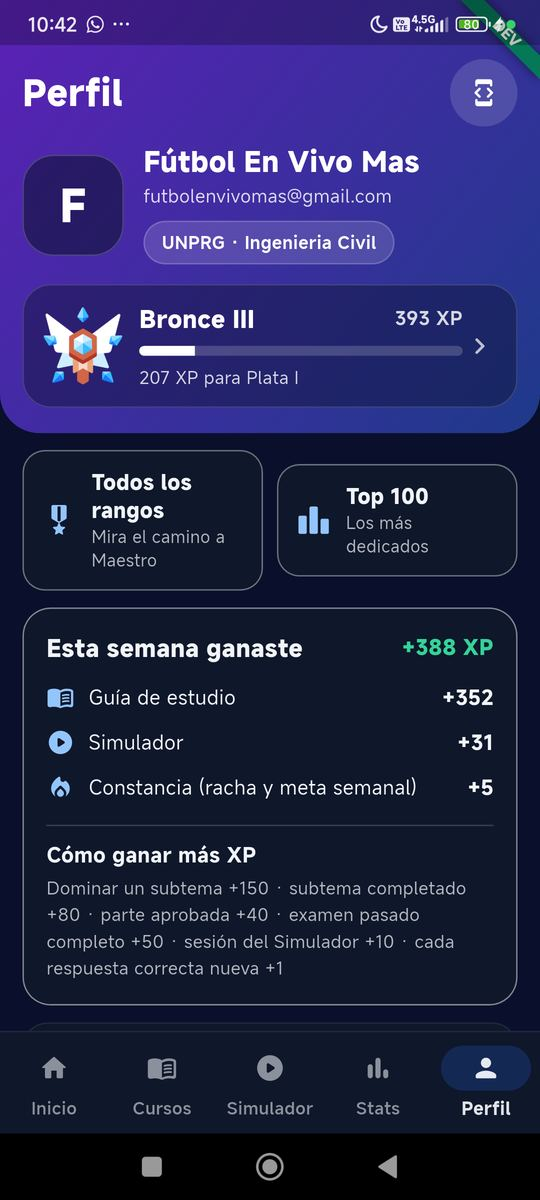
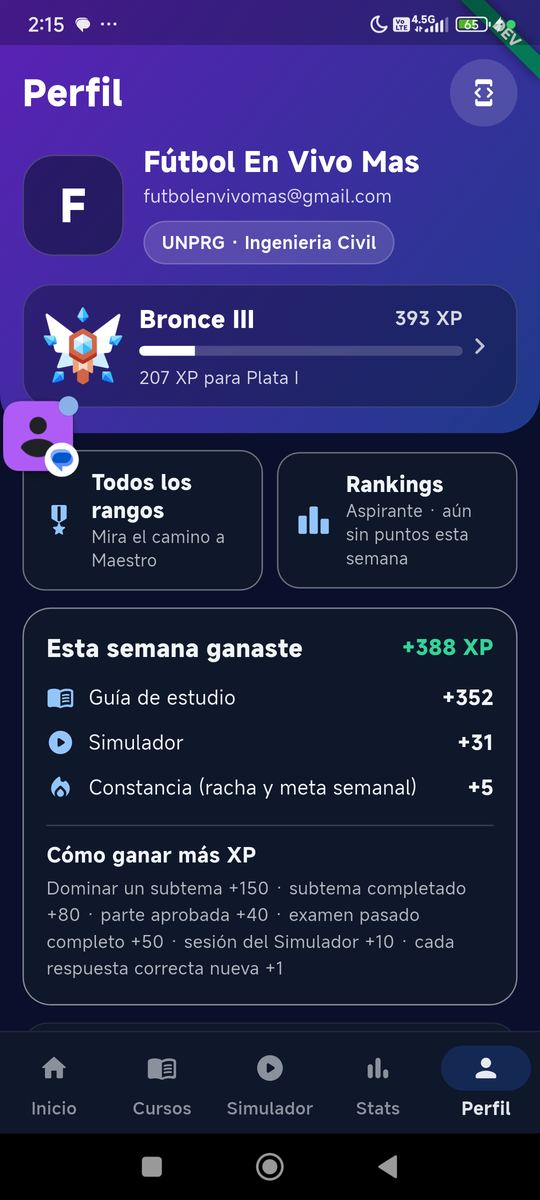
fix(simulator): no practicar los errores del reto del día el mismo día

diff --git a/docs/guias/guia_app.html b/docs/guias/guia_app.html
@@ -635,7 +635,7 @@ flowchart LR
 </ul>
 
 <div class="screen" id="xp-perfil">
-  <figure><img src="img/xp-perfil.jpg" alt="Perfil con rango"><figcaption>Perfil: Bronce III, 393 XP, y los accesos.</figcaption></figure>
+  <figure><img src="img/xp-perfil.jpg" alt="Perfil con rango"><figcaption>Perfil: «Todos los rangos» y «Rankings».</figcaption></figure>
   <div class="body">
 <h3>En el Perfil</h3>
 <div class="table-wrap"><table>
@@ -698,7 +698,11 @@ flowchart LR
   </div>
 </div>
 
-<h3 id="xp-usuario">Nombre de usuario</h3>
+<div class="screen two" id="xp-usuario">
+  <figure><img src="img/rk-nombre-asignado.jpg" alt="Te asignamos un nombre de usuario"><figcaption>Aviso único a una cuenta que ya existía.</figcaption></figure>
+  <figure><img src="img/rk-nombre-usuario.jpg" alt="Tu nombre de usuario"><figcaption>Perfil → «Tu nombre de usuario».</figcaption></figure>
+  <div class="body">
+<h3>Nombre de usuario</h3>
 <p>Todos los alumnos tienen un nombre de usuario: es lo único que los demás ven en los rankings, junto a la insignia del rango. Nunca se muestra el nombre real, el correo ni las respuestas.</p>
 <div class="table-wrap"><table>
   <tr><th>Dónde</th><th>Mensaje</th><th>Cuándo aparece</th></tr>
@@ -708,8 +712,14 @@ flowchart LR
   <tr><td class="msg">Perfil → «Tu nombre de usuario»</td><td>Campo · «Otro al azar» · «Ocultarme de los rankings» (apagado: «Apareces con tu nombre de usuario y tu insignia.»; encendido: «Juegas igual y ves tu puesto, pero los demás te ven como «Postulante oculto».») · «Los demás ven / Nunca ven» · «Compites en UNPRG · Ingeniería Civil, según tu perfil.» · «Guardar» → «Listo, guardado.»</td><td>Siempre.</td></tr>
   <tr><td class="msg">Errores del nombre</td><td>«El alias debe tener de 3 a 20 caracteres.» · «Usa solo letras, números y _ (sin espacios), con al menos una letra.» · «Ese alias no está permitido. Prueba con otro.» · «No uses tu nombre ni tu correo en el alias.» · «Ese alias ya lo usa otro alumno.»</td><td>Los dos primeros los revisa la app; el resto, el servidor (palabras prohibidas de fábrica + las del admin <span class="chip info">ADMIN</span>).</td></tr>
 </table></div>
+  </div>
+</div>
 
-<h3 id="xp-rankings">Rankings: «Mi liga»</h3>
+<div class="screen two" id="xp-rankings">
+  <figure><img src="img/rk-mi-liga.jpg" alt="Mi liga"><figcaption>Aspirante, 1° de 1, reto hecho.</figcaption></figure>
+  <figure><img src="img/rk-esta-semana.jpg" alt="Esta semana"><figcaption>«Esta semana» en la UNPRG.</figcaption></figure>
+  <div class="body">
+<h3>Rankings: «Mi liga»</h3>
 <p>Se abre desde el Perfil. Solo existe cuando el admin enciende los rankings <span class="chip info">ADMIN</span> (de fábrica están apagados). La <b>liga semanal</b> mide el XP que ganas de lunes a domingo (hora de Lima) frente a un grupo de unos 30 alumnos <span class="chip info">ADMIN</span> de tu misma <b>etapa</b>: Aspirante → Postulante → Finalista → Ingresante <span class="chip info">ADMIN</span>. La etapa no es el rango del perfil: el rango solo sube; la etapa sube o baja cada semana.</p>
 <ul>
   <li><b>Entrar a un grupo:</b> al ganar tu primer XP de la semana entras al primer grupo de tu etapa con cupo; si está lleno, se abre otro (por orden de llegada). Sin XP, no ocupas lugar.</li>
@@ -727,8 +737,13 @@ flowchart LR
   <tr><td class="msg">El lunes, una vez: «¡Subiste a Finalista!» / «Te mantienes en Postulante» / «Bajaste a Aspirante» · «La semana pasada quedaste {p}° de {n} en tu grupo. ¡Esta semana empiezas de cero!» · «¡Vamos!»</td><td>Al abrir Rankings después del cierre.</td></tr>
   <tr><td class="msg">«Los rankings todavía no están disponibles.»</td><td>Si el admin los apagó.</td></tr>
 </table></div>
+  </div>
+</div>
 
-<h3 id="xp-reto">Reto del día</h3>
+<div class="screen" id="xp-reto">
+  <figure><img src="img/rk-reto-tabla.jpg" alt="Tabla del reto"><figcaption>Tabla del día: UNPRG / Mi carrera.</figcaption></figure>
+  <div class="body">
+<h3>Reto del día</h3>
 <p>Un mini examen diario de 10 preguntas <span class="chip info">ADMIN</span> <b>iguales para toda tu universidad</b>, con 15 min <span class="chip info">ADMIN</span> y <b>un solo intento</b>. Aparece en Rankings y en el Inicio del Simulador (solo con los rankings encendidos).</p>
 <ul>
   <li><b>Preguntas:</b> el servidor arma el reto la primera vez que alguien de la universidad lo abre ese día. Siempre trae preguntas de <b>exámenes pasados de esa universidad</b> (hasta 6 <span class="chip info">ADMIN</span>; al menos 1 si existen); el resto, de exámenes de otras universidades o propias de IngresoYa, repartidas entre los cursos. No repite preguntas de sus retos de los últimos 30 días <span class="chip info">ADMIN</span>.</li>
@@ -742,11 +757,13 @@ flowchart LR
   <tr><td class="msg">«Reto del día» · «10 preguntas iguales para todos · cierra a medianoche» · «Jugar»</td><td>Si hoy no lo jugó.</td></tr>
   <tr><td class="msg">«Hecho · 8/10 · 6:42» · «Ver tabla»</td><td>Ya lo jugó hoy.</td></tr>
   <tr><td class="msg">«Reto de ayer: 7/10» · «Ver respuestas» · «Ver tabla»</td><td>Si jugó ayer: las respuestas con su explicación y la tabla final.</td></tr>
-  <tr><td class="msg">Intro «Reto del día» · «Un solo intento: al empezar, ya cuenta…»</td><td>Antes de empezar (pantalla del examen del Simulador, con reloj).</td></tr>
-  <tr><td class="msg">Resultado: puntaje, «Ganaste XP» (con «Reto del día +20») · «Mañana verás las respuestas y la tabla final.» · «Ver la tabla de hoy»</td><td>Al entregar. «Revisar» no muestra respuestas ese día.</td></tr>
+  <tr><td class="msg">Intro «Reto del día» · «10 preguntas» · «15:00» · «Un solo intento: al empezar, ya cuenta. Gana quien acierta más; si empatan, quien tardó menos. Las respuestas se ven mañana.»</td><td>Antes de empezar (pantalla del examen del Simulador, con reloj).</td></tr>
+  <tr><td class="msg">Resultado: puntaje, correctas / incorrectas / en blanco, «Ganaste XP» (con «Reto del día +20») · «Mañana verás las respuestas y la tabla final.» · «Ver la tabla de hoy» · «Volver»</td><td>Al entregar. Ese día no se muestran «Revisar», «Practicar mis errores», «Por curso y tema» ni el tema más débil, porque revelarían las respuestas (el servidor también rechaza practicar esos errores).</td></tr>
   <tr><td class="msg">Tabla «Reto del día · 15/10» con pestañas UNPRG / «Mi carrera» · «Tu puesto: 12° de 47» · filas «8/10 · 6:42»</td><td>La carrera es la del perfil al jugar; su pestaña se llena desde 5 jugadores <span class="chip info">ADMIN</span>.</td></tr>
   <tr><td class="msg">«Ya jugaste el reto de hoy. Vuelve mañana.» · «Hoy no hay reto para tu universidad.» · «Elige tu universidad en el Perfil para jugar el reto.»</td><td>Segundo intento · sin preguntas suficientes · perfil sin universidad.</td></tr>
 </table></div>
+  </div>
+</div>
 
 <!-- ============================================================ ADMIN -->
 <h2 id="admin">Lo que se cambia en el admin</h2>
@@ -789,7 +806,7 @@ flowchart LR
 <!-- ============================================================ CAMBIOS -->
 <h2 id="cambios">Historial de cambios</h2>
 <ul class="changelog">
-  <li><b>16-oct-2026</b> · XP fase 3: nombre de usuario para todos (onboarding, Perfil, «Ocultarme de los rankings»), «Rankings» con «Mi liga» (etapas Aspirante → Ingresante, grupos semanales, «Esta semana» por universidad y carrera) y «Reto del día»; se retira el top 100 de la fase 2. Admin «Rankings» y «Nombres de usuario y reto de hoy». Capturas pendientes.</li>
+  <li><b>16-oct-2026</b> · XP fase 3: nombre de usuario para todos (onboarding, Perfil, «Ocultarme de los rankings»), «Rankings» con «Mi liga» (etapas Aspirante → Ingresante, grupos semanales, «Esta semana» por universidad y carrera) y «Reto del día»; se retira el top 100 de la fase 2. Admin «Rankings» y «Nombres de usuario y reto de hoy». Probado en el teléfono (el reto trajo preguntas del examen UNPRG 2025 I); el resultado del reto oculta ese día lo que revela respuestas.</li>
   <li><b>15-oct-2026</b> · Pendientes antes de Play Console: un solo % del curso, «Tienes un examen sin terminar · Retomar» en el Simulador, «Hoy te toca» sin duplicados y botón «Continuar examen». Observaciones 1, 9 (en parte) y 11 corregidas.</li>
   <li><b>15-oct-2026</b> · XP fase 2: «Los más dedicados» (top 100), «Rankings y privacidad» con alias, accesos en el Perfil; admin «Top 100 y alias». Capturas del teléfono.</li>
   <li><b>15-oct-2026</b> · Rango de perfil y XP (fase 1): cómo se gana XP, Perfil, «Tu camino de rangos», «+N XP» al terminar y celebración; admin «XP y rangos» y «XP de un alumno» (app y admin «XP fase 1»). Capturas tomadas en el teléfono.</li>

diff --git a/functions/src/simulator_service.ts b/functions/src/simulator_service.ts
@@ -801,6 +801,10 @@ export class SimulatorService {
       data?.status !== "submitted") {
       throw failedPrecondition("That attempt cannot be practiced again.", { reason: "mistakes_unavailable" });
     }
+    // Practicing today's challenge mistakes would reveal its answers.
+    if (challengeLocked(simulator)) {
+      throw failedPrecondition("The challenge answers are hidden until tomorrow.", { reason: "mistakes_unavailable" });
+    }
     const attempt = projectAttemptResponse(input.fromAttemptId, data);
     const keys = await this.db.getAll(
       ...attempt.questions.map((question) =>

diff --git a/functions/test/simulator.emulator.test.ts b/functions/test/simulator.emulator.test.ts
@@ -315,6 +315,11 @@ test("reto del día: same questions for the university, one attempt, answers hid
   assert.equal(saved?.correct, 7);
   assert.equal(saved?.universityId, universityId);
   assert.equal(saved?.professionId, "sim-profession");
+  // «Practicar mis errores» of today's challenge would reveal the answers.
+  await assert.rejects(
+    service.create(uid, { requestId: "ch-mistakes", purpose: "practice", mode: "mistakes", fromAttemptId: first.attemptId, timed: false }),
+    hasReason("failed-precondition", "mistakes_unavailable")
+  );
   await rankings.delete();
 });
 

diff --git a/PROGRESO.md b/PROGRESO.md
@@ -8,6 +8,7 @@ _Última actualización: 2026-10-15_
 - `desarrollo` con admin #53 (repaso relámpago, 2026-10-14). Antes: #52, #51, #50. Functions en Node.js 22; las 7 callables e índices TTL desplegados en TEST; reglas de Firestore desplegadas en TEST.
 
 ## Hecho (reciente)
+- **Fase 3 probada en el teléfono (2026-10-16):** aviso «Te asignamos Oso_Civil_26», Perfil → «Rankings · Aspirante», Rankings sin asiento → reto del día (preguntas del examen UNPRG 2025 I, 3/10, +37 XP con «Reto del día +20») → asiento creado «1° de 1 en tu grupo · zona de subida», tabla del reto UNPRG / «Mi carrera» («Aún hay pocos»), «Esta semana» 1° de 2, «Ocultarme» → «Tú · Postulante oculto». **Corregido tras la prueba:** el resultado del reto ese día ya no muestra «Revisar», «Practicar mis errores», «Por curso y tema» ni el tema más débil (revelaban respuestas) y el servidor rechaza practicar esos errores (`mistakes_unavailable`, desplegado); la intro del reto muestra sus reglas; la barra inferior marca «Perfil» en Rankings. Pendiente: ver en el teléfono el resultado corregido (se desconectó; el intento de hoy de la cuenta de prueba quedó borrado en TEST para rejugarlo). Guía v8 con capturas.
 - **XP fase 3: nombre de usuario, liga semanal y reto del día (2026-10-16), desplegado en TEST; reemplaza al top 100 de la fase 2.** Contrato `docs/rankings_contract.md`. Config `{config}/rankings` (interruptor general apagado de fábrica; al encender desde el admin la liga empieza el lunes siguiente). **Nombre de usuario** para todos: paso 3 de 4 del onboarding (sugerido «Animal_Carrera_NN», «Otro al azar», «Lo elijo después»), «Tu nombre de usuario» en el Perfil con «Ocultarme de los rankings» («Postulante oculto»), aviso único para cuentas existentes; el servidor genera uno si falta (`npm run rankings:aliases`, aplicado en TEST: 4 cuentas). **Liga**: etapas Aspirante → Postulante → Finalista → Ingresante, grupos de 30 por orden de llegada al primer XP de la semana, suben/bajan 15 % (nadie baja en grupos < 5), cierre automático `closeLeagueWeek` lunes 00:10 Lima (Cloud Scheduler activado por el despliegue), aviso del resultado una vez; «Esta semana» por universidad y carrera. **Reto del día**: 10 preguntas iguales por universidad (hasta 6 de sus exámenes pasados, ≥1 si hay), 15 min, un intento, respuestas al día siguiente, tablas universidad / «Mi carrera», XP de sesión + bono 20. Admin: «Rankings» (todas las reglas + alumnos activos) y «Nombres de usuario y reto de hoy» (retirar nombre, ver ocultos, cambiar pregunta del reto); revertir XP descuenta el XP de la semana. **En TEST los rankings quedaron ENCENDIDOS con startWeek 2026-10-12 para probar.** Pruebas: functions 63 + emuladores 39, admin 107, app 414. **Pendiente:** probar en el teléfono (se desconectó) y capturas para la Guía. Guía v7 y Arquitectura v8.
 - **Pendientes antes de Play Console (2026-10-15):** (1) «Hoy te toca» sin duplicados: el servidor guarda `examRequestKeys/open_plan_{día}` y, mientras esa sesión siga abierta, la devuelve aunque llegue otro `requestId` (desplegado en TEST; probado en el teléfono: «Otra sesión» abrió el mismo examen con «Tiempo restante»). (2) Retomar el Simulador: el teléfono recuerda el examen al crearlo (`findLatestSimulator` en el almacén local) y el Inicio del Simulador muestra «Tienes un examen sin terminar · Retomar / Descartar»; botón «Continuar examen» en un examen ya empezado (probado: cerrar la app a la fuerza y retomar). (3) App Check activado en la app (`lib/config/app_check_bootstrap.dart`: Play Integrity solo en production release, depuración en el resto; `APP_CHECK_DEBUG_TOKEN` opcional). **Falta en Firebase:** activar la API «Firebase App Check API» (está apagada), registrar apps y tokens y luego exigirlo; pasos en `iya-app/docs/app_check.md`. (4) Un solo % del curso: `CourseProgressSummary.progressFor` (partes; 100 % con todos los subtemas) en Inicio, Cursos, detalle del curso, Temario y Mis logros. Pruebas: functions emuladores 36, app 409. Guía v6 y Arquitectura v7.
 - **XP fase 2: top 100 «Los más dedicados» y alias (2026-10-15), desplegado en TEST.** Functions: callable `updateRankingProfile` (alias de 3-20 caracteres, sin palabras prohibidas ni el nombre/correo del perfil, único sin tildes; reservado en `iya-aliases-test`), fila pública `iya-leaderboard-test/{uid}` (alias, XP, rango, estrellas, universidad y carrera; nunca nombre ni correo) que `XpService.grant` actualiza en la misma transacción; `{config}/xp.leaderboard` (activado, 100, filtro por universidad desde 50, palabras prohibidas); reglas e índices `universityId + total`. App: «Rankings y privacidad» (`/profile/ranking`, apagado por defecto, alias sugerido «Animal_Carrera_NN» y «Otro al azar», errores del servidor), «Los más dedicados» (`/profile/top`, «Tú» resaltado, puesto propio fuera del top o sin aparecer, «UNPRG | Todas» desde 50 alumnos), accesos «Todos los rangos» / «Top 100» en el Perfil y la fila «Privacidad» del Perfil ahora abre «Rankings y privacidad». Admin: sección «Top 100 y alias» en «XP y rangos», tarjeta «Top 100 y alias» para retirar un alias con motivo, y revertir XP actualiza la fila del top. Probado en el teléfono (alias con el nombre rechazado, guardado, top con 3 cuentas de TEST: se activaron con alias al azar las cuentas j54… «Cóndor_Sistemas_41» y E5Om… «Puma_Sistemas_17»). Pruebas: functions 58 + emuladores 35, admin 104, app 404. Guía v5 y Arquitectura v6 publicadas; contrato `docs/xp_contract.md` §7.
